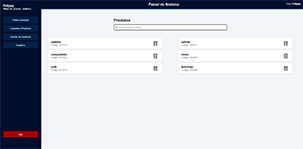
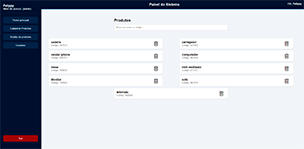
atualizando

diff --git a/index.html b/index.html
@@ -170,13 +170,74 @@
             <h3 id="tituloP" data-key="meusProjetosH3">Meus Projetos</h3>
             <article class="projetosCategoria">
                 <h4 data-key="h4Aplicaoes">Aplicações</h4>
+                 <!-- PROJETO CHAMADOS -->
+                <div class="apresentacaoProjetos projetoPrincipal">
+                    <h5 data-key="h5Chamado">
+                        <strong>Sistema de Chamados</strong><br>
+                        <em>#Sistema Web</em>
+                    </h5>
+                    <div class="projetos" id="chamados">
+                        <p class="infoProjeto" data-key="infoProjetoEstoque">Sistema web de gerenciamento de chamados com API REST, autenticação de usuários via JWT e controle de acesso por perfil, permitindo registrar, acompanhar e organizar solicitações entre setores.</p>
+                        <p class="aviso"><span class="material-symbols-outlined">warning</span>Projeto hospedado em servidor gratuito para fins de demonstração, podendo apresentar leve lentidão. Melhorias e otimizações estão em desenvolvimento.</p>
+                        <div class="acessos">
+                            <p class="acessoProjeto linkQRcode" data-key="pQrCode"><span class="material-symbols-outlined">qr_code_2</span>Acessar via QRcode</p>
+                            <div class="overlay hidden"></div>
+                            <div class="QRcode hidden">
+                                <h6 data-key="h5Chamado">
+                                    Sistema de Chamados<br>
+                                    <em>#Sistema Web</em>
+                                </h6>
+                                <img src="assets/imagens/qrCodes/qr-code-chamados.png" alt="QRcode">
+                                <p ><sapn data-key="fraseQRcode1">Facilite! Do PC para o mobile:<br>um QR code e</sapn> 3 <sapn data-key="fraseQRcode2">cafés e pronto </sapn>&#9749;.</p>
+                            </div>
+                            <a href="https://sistema-chamado-2.onrender.com" target="_blank" data-key="acessoProjeto" class="acessoProjeto">
+                                <span class="material-symbols-outlined" >open_in_new</span>
+                                Acesse o Projeto
+                            </a>
+                            <a href="https://github.com/felippybenicio/sistema-chamado" data-key="codigo" target="_blank" class="acessoProjeto">
+                                <span class="material-symbols-outlined">code</span>
+                                Acessar o código
+                            </a>
+                        </div>
+                        <div class="logosLinguagens">
+                            <div>
+                                <i class="devicon-python-plain python"></i>
+                                <span class="card">Python</span>
+                            </div>
+                            <div>
+                                <i class="devicon-fastapi-plain fastapi"></i>
+                                <span class="card">FastAPI</span>
+                            </div>
+                            <div>
+                                <i class="devicon-javascript-plain js"></i>
+                                <span class="card">JavaScript</span>
+                            </div>
+                            <div>
+                                <i class="devicon-html5-plain-wordmark html"></i>
+                                <span class="card">HTML</span>
+                            </div>
+                            <div>
+                                <i class="devicon-css3-plain-wordmark css"></i>
+                                <span class="card">CSS</span>
+                            </div>
+                            <div>
+                                <i class="devicon-mysql-original mysql"></i>
+                                <span class="card">MySQL</span>
+                            </div>
+                        </div>
+                    </div>
+                    <img src="assets/imagens/inteface-projetos/sistema-chamados.png" alt="sistema-estoque" class="interface">
+                </div>
+
+                <!-- PROJETO ESTOQUE -->
                 <div class="apresentacaoProjetos">
                     <h5 data-key="h5Etoque">
                         <strong>Sistema de controle de Estoque</strong><br>
                         <em>#Sistema Web</em>
                     </h5>
-                    <div class="projetos landingpage" id="estoque">
-                        <p class="infoProjeto" data-key="infoProjetoEstoque">Sistema web desenvolvido para gerenciamento de produtos e organização de estoque, com funcionalidades de cadastro, edição e controle de dados armazenados em banco de dados.</p>
+                    <div class="projetos" id="estoque">
+                        <p class="infoProjeto" data-key="infoProjetoEstoque"> Sistema web de controle de estoque que permite cadastrar, editar e gerenciar produtos, mantendo as informações organizadas e armazenadas em banco de dados.</p>
+                        <p class="aviso"><span class="material-symbols-outlined">warning</span>Projeto hospedado em servidor gratuito para fins de demonstração, podendo apresentar leve lentidão. Melhorias e otimizações estão em desenvolvimento.</p>
                         <div class="acessos">
                             <p class="acessoProjeto linkQRcode" data-key="pQrCode"><span class="material-symbols-outlined">qr_code_2</span>Acessar via QRcode</p>
                             <div class="overlay hidden"></div>
@@ -186,7 +247,7 @@
                                     <em>#Sistema Web</em>
                                 </h6>
                                 <img src="assets/imagens/qrCodes/qr-code-estoque.png" alt="QRcode">
-                                <p ><sapn data-key="fraseQRcode1">Facilite! Do PC para o mobile:<br>um QR code e</sapn> 3 <sapn data-key="fraseQRcode2">cafés e pronto </sapn>&#9749;.</p>
+                                <p ><sapn data-key="fraseQRcode1">Facilite! Do PC para o mobile:<br>um QR code e</sapn> 2 <sapn data-key="fraseQRcode2">cafés e pronto </sapn>&#9749;.</p>
                             </div>
                             <a href="https://gestao-estoque.rf.gd/" target="_blank" data-key="acessoProjeto" class="acessoProjeto">
                                 <span class="material-symbols-outlined" >open_in_new</span>
@@ -232,8 +293,8 @@
                         <strong>Barbearia Elegance</strong><br>
                         <em>#Landing Page</em>
                     </h5>
-                    <div class="projetos landingpage" id="estoque">
-                        <p class="infoProjeto" data-key="infoProjetoElegance">Landing page responsiva desenvolvida para apresentação de uma barbearia, com seções de serviços, informações institucionais e contato. O projeto foi criado com foco em organização do layout, design moderno e adaptação para diferentes tamanhos de tela.</p>
+                    <div class="projetos" id="estoque">
+                        <p class="infoProjeto" data-key="infoProjetoElegance">Landing page responsiva desenvolvida para apresentação de uma barbearia, com seções de serviços, informações institucionais e contato, focada em organização do layout, design moderno e adaptação para diferentes dispositivos.</p>
                         <div class="acessos">
                             <p class="acessoProjeto linkQRcode" data-key="pQrCode"><span class="material-symbols-outlined">qr_code_2</span>Acessar via QRcode</p>
                             <div class="overlay hidden"></div>
@@ -271,7 +332,7 @@
                             <!-- <i class="devicon-python-plain"></i> -->
                         </div>
                     </div>
-                    <img src="assets/imagens/inteface-projetos/barbearia.jpg" alt="barbearia" class="interface">             
+                    <img src="assets/imagens/inteface-projetos/LP-barbearia.png" alt="barbearia" class="interface">             
                 </div>
             </article>
         </section>

diff --git a/assets/css/pages/main.css b/assets/css/pages/main.css
@@ -2,7 +2,6 @@
 @import url('https://fonts.googleapis.com/css2?family=Arvo:ital,wght@0,400;0,700;1,400;1,700&family=Oxanium:wght@200..800&family=Sora:wght@100..800&display=swap');
 
 
-
 main {
     background-color: transparent;
     width: 90vw;
@@ -75,32 +74,33 @@ h5 {
 
 .apresentacaoProjetos {    
     padding: 15px;
-    border-radius: 15px 0px;
+    border-radius: 15px 4px;
     height: 376px;
     transition: .5s;
     position: relative;
     z-index: 1;
+    box-shadow:
+        0 0 2px var(--destaques),
+        0 0 7px var(--destaques),
+        inset 0 0 2px var(--destaques),
+        inset 0 0 7px var(--destaques);
+    position: relative;
 }
 
 .apresentacaoProjetos::before {
     content:"";
     position:absolute;
-
     inset:0;
-
-    padding: 3px;
-
-    background:linear-gradient(56deg, var(--destaques), #cafcff, var(--destaques));
-
-    border-radius: 15px 0px;
-
+    padding: 4px 0;
+    background:linear-gradient(56deg, var(--destaques), #cafcffbf, var(--destaques));
+    border-radius: 15px 4px;
     -webkit-mask:
         linear-gradient(#fff 0 0) content-box,
         linear-gradient(#fff 0 0);
 
     -webkit-mask-composite: xor;
-
      z-index:-1;
+     transition: 1s;
 }
 
 .apresentacaoProjetos:hover {
@@ -109,19 +109,60 @@ h5 {
         0 0 10px var(--destaques),
         inset 0 0 5px var(--destaques),
         inset 0 0 10px var(--destaques);
+}
 
-
+.apresentacaoProjetos:hover::before {
+    padding: 4px 2px;
 }
 
 .apresentacaoProjetos em {
     color: #818181;
 }
 
+.projetos {
+    display: flex;
+    flex-flow: column nowrap;
+    justify-content: space-between;
+    height: 327px;
+}
+
+.projetoPrincipal {
+    box-shadow:
+        0 0 2px var(--destaques),
+        0 0 7px var(--destaques),
+        inset 0 0 2px var(--destaques),
+        inset 0 0 7px var(--destaques);
+    position: relative;
+}
+
+/* .apresentacaoProjetos::before {
+    content: "⭐ Projeto Principal";
+    position: absolute;
+    top: 0;
+    left: 0;
+    width: 100%;
+    padding: 4px 0;
+
+    text-align: center;
+    font-size: 0.8rem;
+    font-weight: 600;
+
+    color: #111;
+    background: var(--destaques);
+
+    letter-spacing: 1px;
+} */
 
 .infoProjeto {
-    margin-bottom: 50px;
-    height: 168px;
+    max-height: 147px;
     text-shadow: 2px 3px 4px #0000003d;
+}
+
+.aviso {
+    color: #b18535;
+    font-size: .8em;
+    font-weight: 600;
+    margin-bottom: 21px;
 }
 
 #meusProjetos h5 {
@@ -247,7 +288,7 @@ h5 {
 
 .interface {
     position: absolute;
-    bottom: 80px;
+    bottom: 62px;
     right: 16px;
     width: 145px;
     border: 1px solid var(--corBorda);
@@ -508,8 +549,16 @@ i.fecharTextos {
         height: 426px;
     }
 
+    .projetos {
+        height: 380px;
+    }
+
     .infoProjeto {
-        height: 215px;
+        font-size: 1.1em;
+    }
+
+    .aviso {
+        margin-bottom: 61px;
     }
 
     .acessoProjeto {

diff --git a/assets/css/layout/header.css b/assets/css/layout/header.css
@@ -246,7 +246,7 @@ img#eu:hover {
         top: 134%;
         width: 37%;
         height: 160%;
-        z-index: 10;
+        z-index: 0;
     }
 
     #eu {
@@ -265,11 +265,11 @@ img#eu:hover {
     }
 
     .containerFoto::after {
-        left: 134px;
+        left: 125px;
         top: 106%;
         width: 110%;
         height: 111%;
-        z-index: 10;
+        z-index: 0;
     }
 
     #eu {
